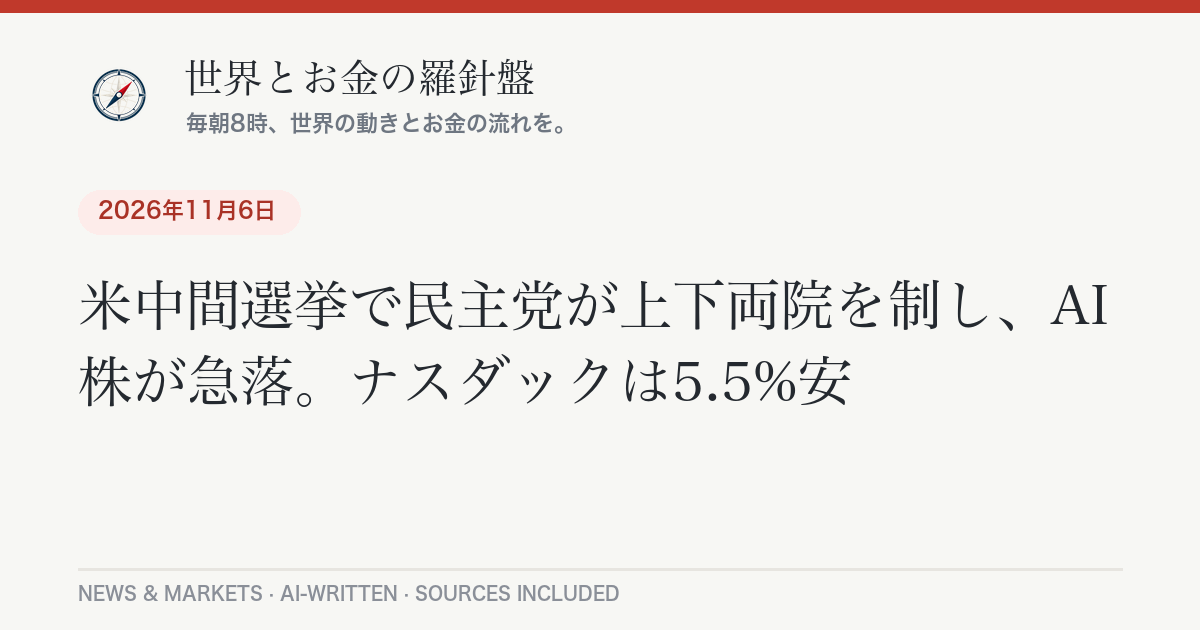
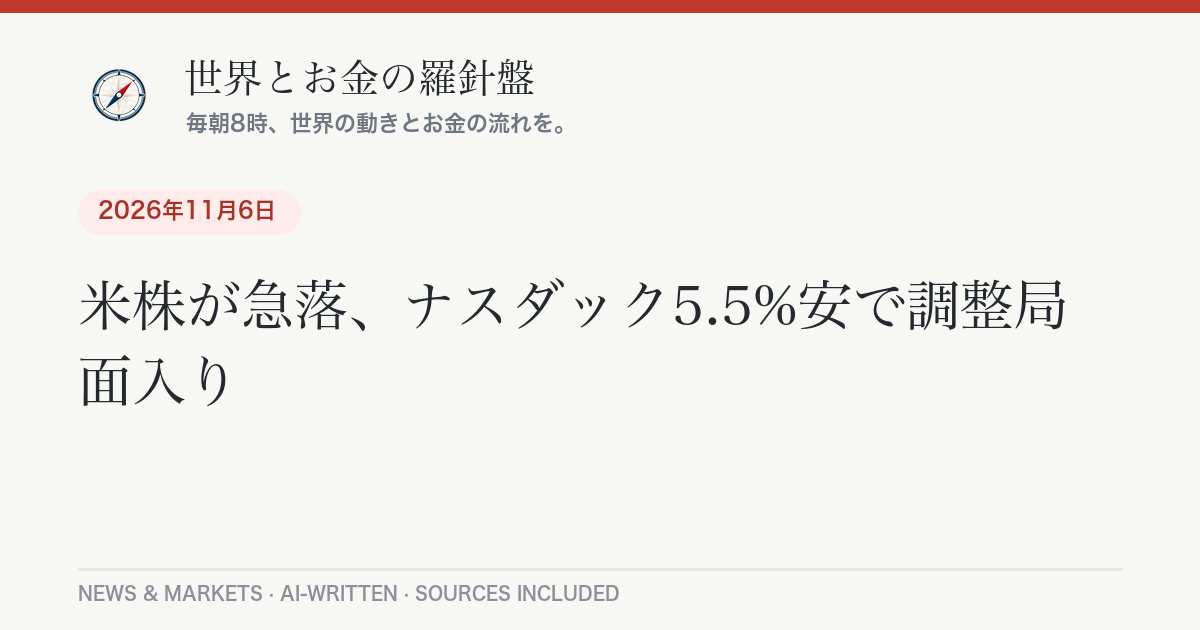
Daily briefing 2026-11-07

Changed region(s): [[0.0925, 0.4222, 0.925, 0.5429], [0.3083, 0.573, 0.7092, 0.6333], [0.0617, 0.5429, 0.2467, 0.6635]]

diff --git a/_posts/2026-11-07-daily-briefing.md b/_posts/2026-11-07-daily-briefing.md
@@ -1,0 +1,107 @@
+---
+layout: post
+lang: ja
+title: "日経平均が歴代3位の下げ、AI株安が世界に波及｜11月7日のニュースとお金"
+date: 2026-11-07 07:44:09 +0900
+categories: [ニュース, 経済]
+headline: "日経平均が歴代3位の下げ、AI株安が世界に波及"
+permalink: /2026/11/07/daily-briefing/
+---
+
+## 今日のポイント
+
+米中間選挙で民主党が躍進したことをきっかけに、「AI向けデータセンターの建設が鈍るのでは」という不安が広がり、株価が世界で大きく下がりました。6日の東京市場では日経平均株価が[3,643円（5.96％）安の5万7,434円77銭](https://www.nikkei.com/article/DGXZQOFL060LV0W6A101C2000000/)で終え、下げ幅は過去3番目の大きさです。一方で、米国の雇用統計は予想を大きく上回り、「物価と金利」の心配も同時に高まっています。
+
+## 今日の羅針盤（Compass Insight）
+
+今週の相場を一言でいえば、「政治の結果を、市場がAI投資の先行きとして読み替えた」一週間でした。イランとの戦闘が終わるかもしれないという期待で4日にダウは大きく上がり、翌5日には「AI向け設備投資が減速する」という見方に変わって急落しました。同じ選挙結果が、1日のうちに正反対の材料として受け止められたわけです。
+
+家計への影響で気になるのは三つです。第一に、株価が大きく動くと、投資信託やNISAの評価額が短期間で上下します。長期の積立なら慌てて動かないことが基本で、「いくら下がったか」より「何年続けるか」を軸に考えたいところです。第二に、ドル円は[158円台前半](https://api.frankfurter.app/latest?from=USD&to=JPY)の円安水準が続いています。円安は輸入品や光熱費の負担に響きます。第三に、米国の強い雇用統計で12月の利上げ観測が強まりました。米国の金利が高止まりすれば、日本の住宅ローン金利や円相場にも波及する可能性があります。
+
+短期では、週明けの東京市場で下げが止まるか、そして中東・ホルムズ海峡の情勢（原油の動き）に注目です。中長期では、「AI投資の熱気がどこまで続くか」と「各国の中央銀行が物価対策としてどこまで利上げするか」の2点が、株価と暮らしのコストを左右しそうです。
+
+## 今日のニュース
+
+### 日本
+
+- 東京株式市場は日経平均が5日続落。[終値は5万7,434円77銭で、4月14日以来およそ7カ月ぶりに5万8,000円を割り込みました](https://www.nikkei.com/article/DGXZQOFL060LV0W6A101C2000000/)。6月25日の最高値（7万2,366円）から2割あまり下がり、「弱気相場」入りと報じられています。
+- 東証株価指数（TOPIX）は[232.40ポイント安の3,707.99](https://www.oanda.jp/lab-education/market_news/kn_2026110601001322/)。日本に加え韓国、台湾の株式市場にもAI関連銘柄を中心に売りが広がりました。
+- 高市首相は、日銀がETF（上場投資信託）の売却ペースを速めると決めたことを受け、[売却益を成長に向けた新たな投資枠の財源にあてたい考え](https://news.web.nhk/newsweb/na/nd-20261106de71505)を示したと、NHKが伝えています。
+
+### 世界
+
+- 米国のトランプ大統領は、イランについて「さらに破壊するか、近く決める」と述べ、軍事行動の再開を示唆しました。[アナドル通信の朝のまとめ](https://www.aa.com.tr/en/world/morning-briefing-nov-6-2026/4113576)によると、同じ日にトルコ議会は、パキスタン・サウジアラビアとの三国防衛協定を279対119で承認しています。
+- ホルムズ海峡では、[イラン側が「タンカー2隻が機雷に触れて炎上した」と発表](https://www.cbsnews.com/live-updates/iran-war-us-trump-midterms-strait-of-hormuz/)しました（海事当局による確認はされていません）。
+- イスラエルでは、ヘルツォグ大統領が[7日（日曜日）に、次期政権づくりを任せる議員を発表する](https://www.aa.com.tr/en/world/morning-briefing-nov-6-2026/4113576)と述べました。
+
+### アメリカ
+
+- 中間選挙で民主党が下院で多数派を確保。[CNNは民主党が下院で250議席超を獲得すると予測](https://www.cnn.com/2026/11/05/politics/live-news/midterm-election-congress)しています。上院も[CBSは民主党が過半数を得たと報じています](https://www.cbsnews.com/live-updates/senate-election-results-2026/)が、アラスカ、ミシシッピは接戦で集計中とされています。
+- 10月の雇用統計で、[非農業部門の就業者数は16万5,000人増、失業率は4.1％](https://www.bls.gov/news.release/empsit.nr0.htm)。市場予想（約6万5,000人）を大きく上回りました。[平均時給は前月比0.4％上昇](https://www.bls.gov/news.release/empsit.nr0.htm)です。
+- 5日の米株式市場は、[S&P500が4.4％下落、ナスダック総合が5.5％下落](https://www.nbcbayarea.com/news/national-international/november-5-stock-market/4170982/)と急落しました。[Yahoo Financeによると、失われた時価総額は約3兆ドル](https://finance.yahoo.com/markets/live/stock-market-today-friday-november-6-dow-sp-500-nasdaq-jobs-report-earnings-135953863.html)です。
+
+### ヨーロッパ
+
+- 英国中央銀行（イングランド銀行）は5日、政策金利を[3.75％から4％へ0.25ポイント引き上げ](https://www.bankofengland.co.uk/monetary-policy-summary-and-minutes/2026/november-2026)ました。採決は8対1で、1人は0.5ポイントの利上げを主張しています。中東情勢によるエネルギー高が理由とされています。
+- 6日の欧州株は、[ロンドンのFTSE100が1.01％下落](https://www.irishtimes.com/business/2026/11/06/european-shares-tumble-while-us-stocks-soar/)。原油安でシェルやBPなどエネルギー株も下げました。
+- 欧州各地で[少なくとも18便の旅客機に爆破予告があり、緊急着陸や迂回、軍機の護衛が行われた](https://www.aa.com.tr/en/world/morning-briefing-nov-6-2026/4113576)と、アナドル通信が伝えています。
+
+## 経済とお金の動き
+
+### 世界の経済と原油・相場
+
+| 指標 | 水準 | 前日比 |
+|---|---|---|
+| 日経平均株価（6日終値） | 5万7,434円77銭 | <span class="chg-down">-3,643円13銭（-5.96%）</span> |
+| ダウ平均（6日終値） | 5万1,285.73ドル | <span class="chg-down">-237.33ドル（-0.46%）</span> |
+| S&P500（6日終値） | 7,376.86 | <span class="chg-up">+23.13（+0.31%）</span> |
+| ナスダック総合（6日終値） | 2万4,579.42 | <span class="chg-up">+264.43（+1.09%）</span> |
+| WTI原油（12月限） | 約90.3ドル/バレル | <span class="chg-down">-0.18ドル（-0.20%）</span> |
+| ドル円（ECB参考レート、11月6日） | 158.33円 | - |
+
+米国の指数は[Yahoo Finance](https://finance.yahoo.com/markets/live/stock-market-today-friday-november-6-dow-sp-500-nasdaq-jobs-report-earnings-135953863.html)、日経平均は[日本経済新聞](https://www.nikkei.com/article/DGXZQOFL060LV0W6A101C2000000/)、為替は[frankfurter API](https://api.frankfurter.app/latest?from=USD&to=JPY)の数値です。WTIはYahoo Finance上の大引け後の表示値で、確定値ではありません。
+
+米国株は5日の急落のあと、6日は半導体株が一部値を戻し、ナスダックとS&P500は反発、ダウは小幅に下げました。ただしS&P500は[週間では6月以来最大の下げ](https://finance.yahoo.com/markets/live/stock-market-today-friday-november-6-dow-sp-500-nasdaq-jobs-report-earnings-135953863.html)です。原油は、選挙後の「戦闘が終わるかも」という期待で一度大きく下がったあと、ホルムズ海峡での船舶への攻撃が続き、[ブレント原油は100ドル近辺まで戻す場面](https://financefeeds.com/brent-crude-oil-price-99-90-friday-after-wall-street-ai-rout-jobs-report-iran-deal-bets-bull-103-60-bear-93-50/)もありました。今週は両指標とも1割あまり下げています。
+
+### アメリカの経済
+
+雇用統計は、就業者数が市場予想の約2倍半という「強い」結果でした。一方、[より広い失業の指標（U-6）は7.9％に上昇](https://www.bls.gov/news.release/empsit.nr0.htm)しており、パートタイム就業が増えた側面もあります。強い数字を受け、[12月の追加利上げ観測が強まった](https://www.morningstar.com/economy/hot-october-jobs-report-raises-odds-of-december-rate-hike)と報じられています。株式市場にとっては「景気は強いが、金利は下がりにくい」という悩ましい組み合わせです。
+
+### 日本の経済
+
+日本株は、米国のAI関連株安の流れをそのまま受けました。AIや半導体関連の比重が高い日経平均は、下げが大きくなりやすい構造です。為替は円安水準が続いており、輸入物価への影響や、日銀の金融政策をめぐる見方が今後の焦点になります。
+
+## 今日の注目銘柄・セクター
+
+- **AI・半導体関連（米国）**：5日に[AMDが約17％下落、CoreWeaveが約10％下落](https://www.nbcbayarea.com/news/national-international/november-5-stock-market/4170982/)するなど、AI関連が売られました。6日は[AMDが約10.6％、エヌビディアが約3.7％上昇](https://finance.yahoo.com/markets/live/stock-market-today-friday-november-6-dow-sp-500-nasdaq-jobs-report-earnings-135953863.html)と反発しています。データセンター投資の先行きが材料視されています。
+- **日本の半導体・AI関連株**：日経平均の大きな下げの中心は、AI・半導体関連でした。米国の値動きに連動しやすく、週明けも米国市場の流れに左右されそうです。
+- **エネルギー株（欧州）**：原油安を受け、[シェルが1.63％、BPが1.41％下落](https://www.irishtimes.com/business/2026/11/06/european-shares-tumble-while-us-stocks-soar/)しました。原油価格が中東情勢で乱高下しているため、株価も振れやすくなっています。
+
+*※特定銘柄の売買を推奨するものではありません。投資判断はご自身の責任で。*
+
+## まとめ：注目の3つ
+
+1. **日経平均が歴代3位の下げ幅**：AI関連株を中心に世界同時株安の様相。週明けの値動きが焦点。
+2. **米雇用統計は強い結果**：12月の利上げ観測が強まり、金利と株価の綱引きが続く。
+3. **中東情勢と原油**：イランをめぐる動きで原油が乱高下。ガソリンや光熱費にも影響しうる。
+
+---
+<div class="post-sources" markdown="1">
+
+**出典：**
+- [日本経済新聞：日経平均大引け　5日続落　3643円安の5万7434円](https://www.nikkei.com/article/DGXZQOFL060LV0W6A101C2000000/)
+- [共同通信（OANDA配信）：東証急落、終値は3643円安](https://www.oanda.jp/lab-education/market_news/kn_2026110601001322/)
+- [NHK：高市首相“日銀ETF追加売却益は新たな投資枠の財源に”](https://news.web.nhk/newsweb/na/nd-20261106de71505)
+- [Yahoo Finance：Stock market today（11月6日）](https://finance.yahoo.com/markets/live/stock-market-today-friday-november-6-dow-sp-500-nasdaq-jobs-report-earnings-135953863.html)
+- [NBC Bay Area：A brutal sell-off for AI stocks sends Wall Street reeling](https://www.nbcbayarea.com/news/national-international/november-5-stock-market/4170982/)
+- [米労働省労働統計局（BLS）：Employment Situation Summary 2026 M10](https://www.bls.gov/news.release/empsit.nr0.htm)
+- [Morningstar：Hot October Jobs Report Raises Odds of December Rate Hike](https://www.morningstar.com/economy/hot-october-jobs-report-raises-odds-of-december-rate-hike)
+- [CBS News：Iran war live updates（11月6日）](https://www.cbsnews.com/live-updates/iran-war-us-trump-midterms-strait-of-hormuz/)
+- [Anadolu Agency：Morning Briefing, Nov. 6, 2026](https://www.aa.com.tr/en/world/morning-briefing-nov-6-2026/4113576)
+- [Bank of England：November 2026 Monetary Policy Summary](https://www.bankofengland.co.uk/monetary-policy-summary-and-minutes/2026/november-2026)
+- [The Irish Times：European shares tumble while US stocks soar](https://www.irishtimes.com/business/2026/11/06/european-shares-tumble-while-us-stocks-soar/)
+- 市場データ: [frankfurter API](https://api.frankfurter.app/) ／ Yahoo Finance ほか
+
+*本記事は公開情報をもとに作成しています。*
+
+</div>

diff --git a/_posts/2026-11-07-daily-briefing-en.md b/_posts/2026-11-07-daily-briefing-en.md
@@ -1,0 +1,55 @@
+---
+layout: post
+lang: en
+title: "Nikkei Posts Third-Biggest Drop on Record as AI Sell-Off Goes Global — November 7, 2026"
+date: 2026-11-07 07:44:09 +0900
+headline: "Nikkei Posts Third-Biggest Drop on Record as AI Sell-Off Goes Global"
+permalink: /2026/11/07/daily-briefing/
+---
+
+## Top U.S. Stories
+
+- **Stocks stabilize after Thursday's AI rout, but the week still hurts.** The [S&P 500 rose 0.31% to 7,376.86 and the Nasdaq gained 1.09% to 24,579.42 on Friday, while the Dow slipped 0.46% to 51,285.73](https://finance.yahoo.com/markets/live/stock-market-today-friday-november-6-dow-sp-500-nasdaq-jobs-report-earnings-135953863.html). It was still the S&P 500's worst week since June. *Why it matters:* Thursday's drop (S&P 500 down 4.4%, Nasdaq down 5.5%) showed how much of the market now rides on AI spending.
+- **October jobs beat forecasts.** [Payrolls rose 165,000 and unemployment was 4.1%](https://www.bls.gov/news.release/empsit.nr0.htm), against roughly 65,000 expected. Average hourly earnings rose 0.4% on the month. *Why it matters:* The strong data [raised the odds of a December Fed rate hike](https://www.morningstar.com/economy/hot-october-jobs-report-raises-odds-of-december-rate-hike), which keeps borrowing costs and bond yields elevated.
+- **Democrats captured the House and, by CBS's projection, the Senate.** [CNN projects Democrats winning more than 250 House seats](https://www.cnn.com/2026/11/05/politics/live-news/midterm-election-congress); [CBS reports a Senate majority](https://www.cbsnews.com/live-updates/senate-election-results-2026/), with Alaska and Mississippi still being counted. *Why it matters:* Investors worry the new balance of power could slow data-center buildout, the engine behind the AI trade.
+- **Iran war uncertainty keeps oil swinging.** President Trump said he may "destroy the rest" of Iran and that [the decision will come soon](https://www.aa.com.tr/en/world/morning-briefing-nov-6-2026/4113576), while Iran [reported two more tankers hit mines near Hormuz](https://www.cbsnews.com/live-updates/iran-war-us-trump-midterms-strait-of-hormuz/) (not independently confirmed).
+- **Asia and Europe sold off in sympathy.** Tokyo's Nikkei 225 [fell 5.96% to 57,434.77](https://www.nikkei.com/article/DGXZQOFL060LV0W6A101C2000000/), its third-largest point drop ever, and the [FTSE 100 lost 1.01%](https://www.irishtimes.com/business/2026/11/06/european-shares-tumble-while-us-stocks-soar/). The Bank of England also [raised its rate to 4%](https://www.bankofengland.co.uk/monetary-policy-summary-and-minutes/2026/november-2026) on Thursday.
+
+## Compass Insight
+
+This week the market read a political result as an AI-spending story. On Wednesday, hopes that the Iran war might end lifted stocks; by Thursday, the same election was seen as a threat to data-center growth, and the Nasdaq entered a correction. That whiplash says positioning is crowded and sentiment is fragile. Friday's strong jobs report adds a second tension: a healthy economy is good news, but it keeps the Fed leaning toward higher rates, which weighs on richly valued tech. In the short term, watch whether chip stocks hold Friday's rebound and whether Hormuz headlines push oil back toward $100. Over the medium term, the question is whether AI capital spending plans survive higher rates and a more divided policy backdrop. Volatility is likely to stay elevated.
+
+## Markets
+
+- **Stocks:** S&P 500 7,376.86 (+0.31%), Nasdaq 24,579.42 (+1.09%), Dow 51,285.73 (-0.46%), per [Yahoo Finance](https://finance.yahoo.com/markets/live/stock-market-today-friday-november-6-dow-sp-500-nasdaq-jobs-report-earnings-135953863.html).
+- **Oil:** December WTI was quoted near $90.3 a barrel after the close (an indicative Yahoo Finance quote, not a confirmed settlement), and [Brent traded near $100 at times](https://financefeeds.com/brent-crude-oil-price-99-90-friday-after-wall-street-ai-rout-jobs-report-iran-deal-bets-bull-103-60-bear-93-50/). Both are down roughly 12% on the week.
+- **Currency:** USD/JPY was [158.33 on the ECB reference rate for November 6](https://api.frankfurter.app/latest?from=USD&to=JPY).
+
+## Stocks in Focus
+
+- **AMD and chipmakers:** AMD [fell about 17% on Thursday](https://www.nbcbayarea.com/news/national-international/november-5-stock-market/4170982/) and then [rebounded roughly 10.6% on Friday](https://finance.yahoo.com/markets/live/stock-market-today-friday-november-6-dow-sp-500-nasdaq-jobs-report-earnings-135953863.html), with Nvidia up about 3.7%. The swings reflect doubts over data-center spending.
+- **European energy:** [Shell fell 1.63% and BP 1.41%](https://www.irishtimes.com/business/2026/11/06/european-shares-tumble-while-us-stocks-soar/) as oil dropped on the week.
+
+*This is information, not a recommendation to buy or sell any security.*
+
+---
+<div class="post-sources" markdown="1">
+
+**Sources:**
+- [Yahoo Finance: Stock market today, Nov. 6](https://finance.yahoo.com/markets/live/stock-market-today-friday-november-6-dow-sp-500-nasdaq-jobs-report-earnings-135953863.html)
+- [NBC Bay Area: A brutal sell-off for AI stocks sends Wall Street reeling](https://www.nbcbayarea.com/news/national-international/november-5-stock-market/4170982/)
+- [BLS: Employment Situation Summary, October 2026](https://www.bls.gov/news.release/empsit.nr0.htm)
+- [Morningstar: Hot October Jobs Report Raises Odds of December Rate Hike](https://www.morningstar.com/economy/hot-october-jobs-report-raises-odds-of-december-rate-hike)
+- [CNN: 2026 midterm election results](https://www.cnn.com/2026/11/05/politics/live-news/midterm-election-congress)
+- [CBS News: Senate election results 2026](https://www.cbsnews.com/live-updates/senate-election-results-2026/)
+- [CBS News: Iran war live updates](https://www.cbsnews.com/live-updates/iran-war-us-trump-midterms-strait-of-hormuz/)
+- [Anadolu Agency: Morning Briefing, Nov. 6, 2026](https://www.aa.com.tr/en/world/morning-briefing-nov-6-2026/4113576)
+- [Nikkei: Nikkei 225 closes down 3,643 yen](https://www.nikkei.com/article/DGXZQOFL060LV0W6A101C2000000/)
+- [Bank of England: November 2026 Monetary Policy Summary](https://www.bankofengland.co.uk/monetary-policy-summary-and-minutes/2026/november-2026)
+- [The Irish Times: European shares tumble while US stocks soar](https://www.irishtimes.com/business/2026/11/06/european-shares-tumble-while-us-stocks-soar/)
+- [FinanceFeeds: Brent crude oil price](https://financefeeds.com/brent-crude-oil-price-99-90-friday-after-wall-street-ai-rout-jobs-report-iran-deal-bets-bull-103-60-bear-93-50/)
+- [frankfurter API](https://api.frankfurter.app/)
+
+</div>
+
+*Auto-generated and AI-written. Not investment advice.*
